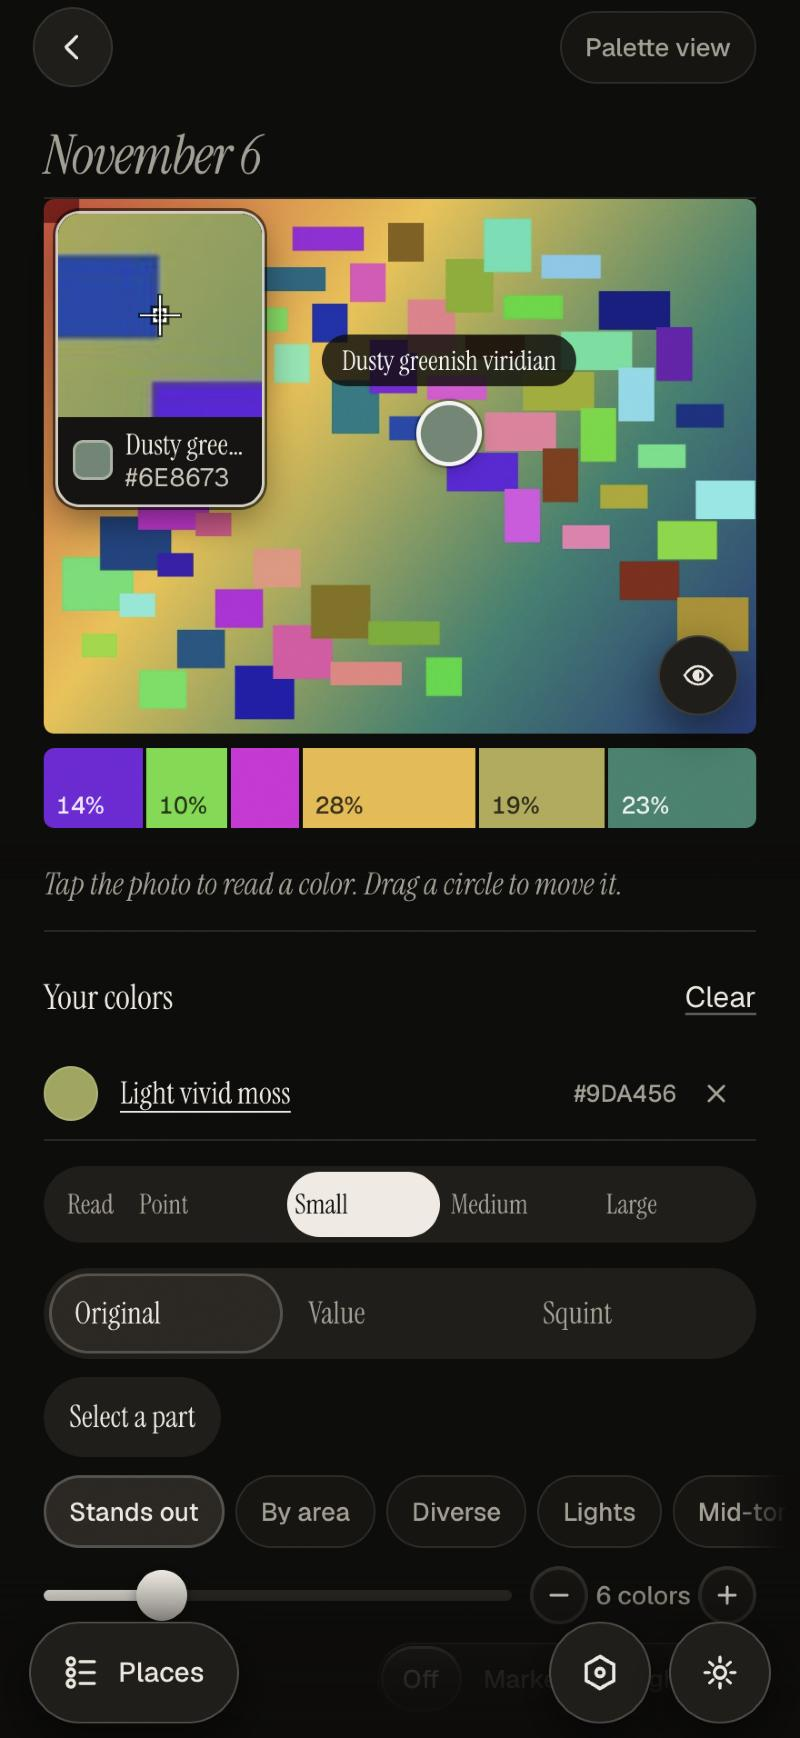
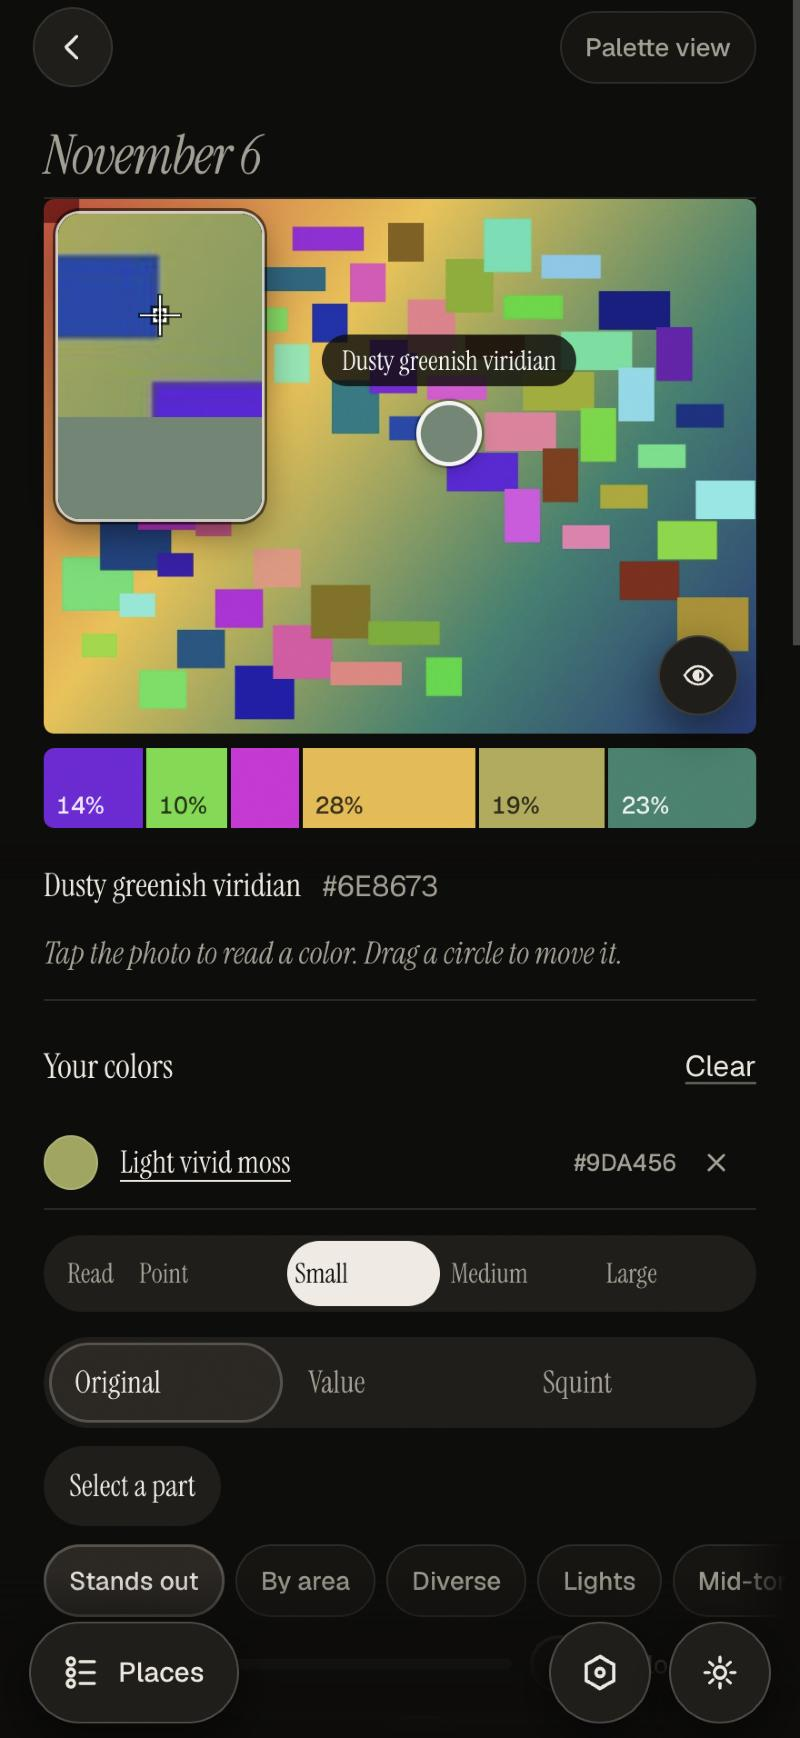
Eyedropper magnifier: close-up plus a solid color block, name and hex move to a live line under the photo

diff --git a/js/eyedrop.js b/js/eyedrop.js
@@ -102,7 +102,13 @@ function eydNameOf(hex) {
 
 // ---------- the preview square (shared with Look closer) ----------
 const EYD_ZOOM = 3.5;   // the close-up magnifies what's on screen by about this much
-const eydPreviewHTML = (hidden) => `<div class="eyd-prev"${hidden ? " hidden" : ""} aria-hidden="true"><div class="eyd-prev-sq"><canvas width="480" height="480"></canvas><i class="eyd-prev-area"></i><i class="eyd-prev-x"></i></div><div class="eyd-prev-info"><i class="eyd-prev-sw"></i><span class="eyd-prev-txt"><b class="eyd-prev-name"></b><em class="eyd-prev-hex"></em></span></div></div>`;
+const eydPreviewHTML = (hidden) => `<div class="eyd-prev"${hidden ? " hidden" : ""} aria-hidden="true"><div class="eyd-prev-sq"><canvas width="480" height="480"></canvas><i class="eyd-prev-area"></i><i class="eyd-prev-x"></i></div><div class="eyd-prev-info"><i class="eyd-prev-sw"></i></div></div>`;
+// the live readout under the photo (the card itself carries no text): the picked color's name and hex, kept after the finger lifts
+const eydReadoutHTML = () => `<p class="eyd-read" hidden><b class="eyd-read-name"></b><span class="eyd-read-hex"></span></p>`;
+function eydReadoutSet(el, hex) {
+  if (!el || !hex) return; el.hidden = false;
+  el.querySelector(".eyd-read-name").textContent = eydNameOf(hex) || hex; el.querySelector(".eyd-read-hex").textContent = hex;
+}
 // where the preview card goes: the free top corner of the visible picture (vis = {l,t,r,b} in viewport px), flipping to the
 // other corner when the point (x, y) or a thumb about it (radius d, never less than a finger's reach) comes near it
 function eydPrevPlace(prevEl, vis, x, y, d) {
@@ -135,8 +141,6 @@ function eydPreviewDraw(root, s, fx, fy, nSrc, screenPerSrc, hex) {
   area.style.width = area.style.height = ap + "px";
   if (hex) {
     root.querySelector(".eyd-prev-sw").style.setProperty("--c", hex);
-    root.querySelector(".eyd-prev-name").textContent = eydNameOf(hex) || hex;
-    const hx = root.querySelector(".eyd-prev-hex"); if (hx) hx.textContent = hex;
   }
 }
 // the reticle's markup: a ring (double outline, set in css/eyedrop.css) with a center dot; --d is its diameter
@@ -149,8 +153,8 @@ function eydLoupe() {
   layer.innerHTML = eydPreviewHTML(); document.body.appendChild(layer);
   const prev = layer.querySelector(".eyd-prev");
   return {
-    show(s, fx, fy, nSrc, per, hex, vis, x, y) {
-      layer.hidden = false; eydPreviewDraw(prev, s, fx, fy, nSrc, per, hex); eydPrevPlace(prev, vis, x, y, 0);
+    show(s, fx, fy, nSrc, per, hex, vis, x, y, readEl) {
+      eydReadoutSet(readEl, hex); layer.hidden = false; eydPreviewDraw(prev, s, fx, fy, nSrc, per, hex); eydPrevPlace(prev, vis, x, y, 0);
     },
     hide() { layer.hidden = true; },
     destroy() { layer.remove(); },
@@ -160,7 +164,7 @@ function eydLoupe() {
 // ---------- the picker on any <img>/<canvas> ----------
 let EYD_SESSION = null;   // the live drag, if any
 function eyedropAttach(el, o = {}) {
-  let src = null, ret = null, layer = null, ringEl = null, prevEl = null, bar = null, g = null, lastHex = null, lastName = null;
+  let src = null, ret = null, layer = null, ringEl = null, prevEl = null, bar = null, readEl = null, g = null, lastHex = null, lastName = null;
   let tick = 0, raf = 0, dead = false;
   const sess = { resample: null };
   const ensureSrc = () => (src = src || eydSource(el));
@@ -171,6 +175,9 @@ function eyedropAttach(el, o = {}) {
     layer.innerHTML = eydPreviewHTML() + eydReticleHTML();
     document.body.appendChild(layer);
     prevEl = layer.querySelector(".eyd-prev"); ringEl = layer.querySelector(".eyd-ret");
+    if (o.readout !== false && !readEl && el.insertAdjacentElement) {
+      el.insertAdjacentHTML("afterend", eydReadoutHTML()); readEl = el.nextElementSibling;
+    }
     if (o.sizes !== false && !bar) {
       bar = document.createElement("div"); bar.className = "eyd-sizebar"; bar.innerHTML = eydSizeControlHTML();
       if (el.insertAdjacentElement) el.insertAdjacentElement("afterend", bar);
@@ -205,7 +212,7 @@ function eyedropAttach(el, o = {}) {
     eydPreviewDraw(prevEl, src, ret.fx, ret.fy, r.n, f ? f.dw / src.w : 1, r.hex);
     const nm = eydNameOf(r.hex);
     if (nm !== lastName) { if (lastName !== null && typeof buzz === "function") buzz(3); lastName = nm; }
-    lastHex = r.hex;
+    lastHex = r.hex; eydReadoutSet(readEl, r.hex);
     if (fire === false) return true;
     // the commit (pkAdd) happens BEFORE the caller's own onPick fires, so anything that caller shows already reflects it
     if (final && typeof pkAdd === "function") pkAdd(r.hex, { src: "eyedrop" });
@@ -272,6 +279,7 @@ function eyedropAttach(el, o = {}) {
     clearInterval(tick); if (raf) cancelAnimationFrame(raf);
     if (layer) { layer.remove(); layer = null; }
     if (bar) { bar.remove(); bar = null; }
+    if (readEl) { readEl.remove(); readEl = null; }
     el.style.touchAction = prevTouch;
     if (EYD_SESSION === sess) EYD_SESSION = null;
   };

diff --git a/tools/smoke/scenarios.js b/tools/smoke/scenarios.js
@@ -5275,7 +5275,7 @@ scenario("eyedrop", "the shared eyedropper: drag reads each side, and sample siz
       img.dispatchEvent(new PointerEvent("pointerdown", { bubbles: true, clientX: r.left + 20, clientY: r.top + 20, isPrimary: true, pointerId: 1, pointerType: "mouse" }));
       await raf();
       const pv = document.querySelector(".eyd-prev");
-      const flipped = { right: pv.classList.contains("eyd-prev-r"), name: pv.querySelector(".eyd-prev-name").textContent };
+      const flipped = { right: pv.classList.contains("eyd-prev-r"), name: (document.querySelector(".eyd-read-name") || {}).textContent };
       img.dispatchEvent(new PointerEvent("pointerup", { bubbles: true, clientX: r.left + 20, clientY: r.top + 20, isPrimary: true, pointerId: 1, pointerType: "mouse" }));
       d.detach();
       const gone = !document.querySelector(".eyd-layer") && !document.querySelector(".eyd-sizebar");
@@ -8647,7 +8647,7 @@ scenario("paintings", "Pick a color opens the palette editor: one reticle moves,
   t.expect(t.$(".glz-scrim .eyd-prev") && !t.$(".glz-scrim .eyd-prev").hidden, "the corner preview is missing");
   // no black sausage (David, 2026-10-25): the first time the close-up shows it is already drawn from real pixels, in the corner
   const pv0 = t.ev(`(() => { const p = document.querySelector(".glz-scrim .eyd-prev"), cv = p.querySelector("canvas"), d = cv.getContext("2d").getImageData(cv.width >> 1, cv.height >> 1, 1, 1).data, r = p.getBoundingClientRect(), s = document.querySelector(".glz-stage").getBoundingClientRect();
-    return JSON.stringify({ lit: d[0] + d[1] + d[2] > 24, side: Math.round(r.width), nearTop: r.top - s.top < 24, nearEdge: r.left - s.left < 24 || s.right - r.right < 24, name: p.querySelector(".eyd-prev-name").textContent.length > 0 }); })()`);
+    return JSON.stringify({ lit: d[0] + d[1] + d[2] > 24, side: Math.round(r.width), nearTop: r.top - s.top < 24, nearEdge: r.left - s.left < 24 || s.right - r.right < 24, name: !!p.querySelector(".eyd-prev-sw") }); })()`);
   const pvj = JSON.parse(pv0);
   t.expect(pvj.lit && pvj.nearTop && pvj.nearEdge && pvj.name && pvj.side >= 98, `the close-up must open drawn, in a corner, at least 98px: ${pv0}`);
   t.expect(t.$$(".glz-pk-strip .glz-seg-c").length === 1 && t.$(".glz-seg-live"), "with no colors kept, the live color fills the whole strip alone");

diff --git a/css/eyedrop.css b/css/eyedrop.css
@@ -22,11 +22,14 @@
 .eyd-prev-x::before,.eyd-prev-x::after{content:"";position:absolute;background:rgba(255,255,255,.95);box-shadow:0 0 0 1px rgba(0,0,0,.6)}
 .eyd-prev-x::before{left:-11px;top:-.5px;width:22px;height:1px}
 .eyd-prev-x::after{top:-11px;left:-.5px;height:22px;width:1px}
-.eyd-prev-info{display:flex;align-items:center;gap:6px;padding:6px 7px 7px;box-sizing:border-box}
-.eyd-prev-sw{flex:none;width:22px;height:22px;border-radius:6px;background:var(--c,#888);box-shadow:inset 0 0 0 1.5px rgba(236,232,223,.45)}
-.eyd-prev-txt{display:flex;flex-direction:column;gap:1px;min-width:0;flex:1}
-.eyd-prev-name{min-width:0;font:400 16px/1.15 var(--serif);color:#ECE8DF;overflow:hidden;white-space:nowrap;text-overflow:ellipsis}
-.eyd-prev-hex{font:400 14px/1.1 var(--mono,ui-monospace,Menlo,monospace);font-style:normal;color:#C9C4B8;letter-spacing:0}
+.eyd-prev-info{display:block;height:calc(var(--pv) * .5)}
+.eyd-prev-sw{display:block;width:100%;height:100%;background:var(--c,#888)}
+
+/* the live readout under the photo: the picked color's name (body size) and hex, legible on the page's dark ground */
+.eyd-read{display:flex;align-items:baseline;flex-wrap:wrap;gap:4px 12px;margin:10px 0 0;min-height:28px}
+.eyd-read[hidden]{display:none}
+.eyd-read-name{font:400 18px/1.25 var(--serif);color:var(--ink,#ECE8DF);font-weight:400}
+.eyd-read-hex{font:400 16px/1.25 var(--mono,ui-monospace,Menlo,monospace);color:var(--soft,#C9C4B8)}
 
 /* the sample-size row, below the picture */
 .eyd-sizebar{margin:10px auto 0;max-width:420px;width:100%;padding:0 12px;box-sizing:border-box}

diff --git a/js/studio.js b/js/studio.js
@@ -674,12 +674,13 @@ function palPhotoView(p) {
   // the magnifier (js/eyedrop.js eydLoupe; David, 2026-11-06: "my thumb covers what I'm picking"): while a circle is held it
   // sits in the free top corner of the photo with the live swatch, name and hex, and lets go a moment after the finger lifts
   const loupe = typeof eydLoupe === "function" ? eydLoupe() : null; let loupeT = 0;
+  note.insertAdjacentHTML("beforebegin", eydReadoutHTML()); const readEl = note.previousElementSibling;
   if (loupe) cleanup.push(() => { clearTimeout(loupeT); loupe.destroy(); });
   const loupeAt = d => {
     if (!loupe || !d || !dsrc) return; clearTimeout(loupeT);
     const b = picBox(), vw = innerWidth || document.documentElement.clientWidth, vh = innerHeight || document.documentElement.clientHeight;
     const vis = { l: Math.max(b.left, 0), t: Math.max(b.top, 0), r: Math.min(b.left + b.w, vw), b: Math.min(b.top + b.h, vh) };
-    loupe.show(dsrc, d.fx, d.fy, eydN(dsrc, getSampleSize()), b.w / dsrc.w, d.hex, vis, b.left + d.fx * b.w, b.top + d.fy * b.h);
+    loupe.show(dsrc, d.fx, d.fy, eydN(dsrc, getSampleSize()), b.w / dsrc.w, d.hex, vis, b.left + d.fx * b.w, b.top + d.fy * b.h, readEl);
   };
   const loupeLetGo = () => { if (!loupe) return; clearTimeout(loupeT); loupeT = setTimeout(() => loupe.hide(), 1600); };
   const dotName = hex => typeof nameOfTapped === "function" ? nameOfTapped(hex) : nameOf(hex).text;
